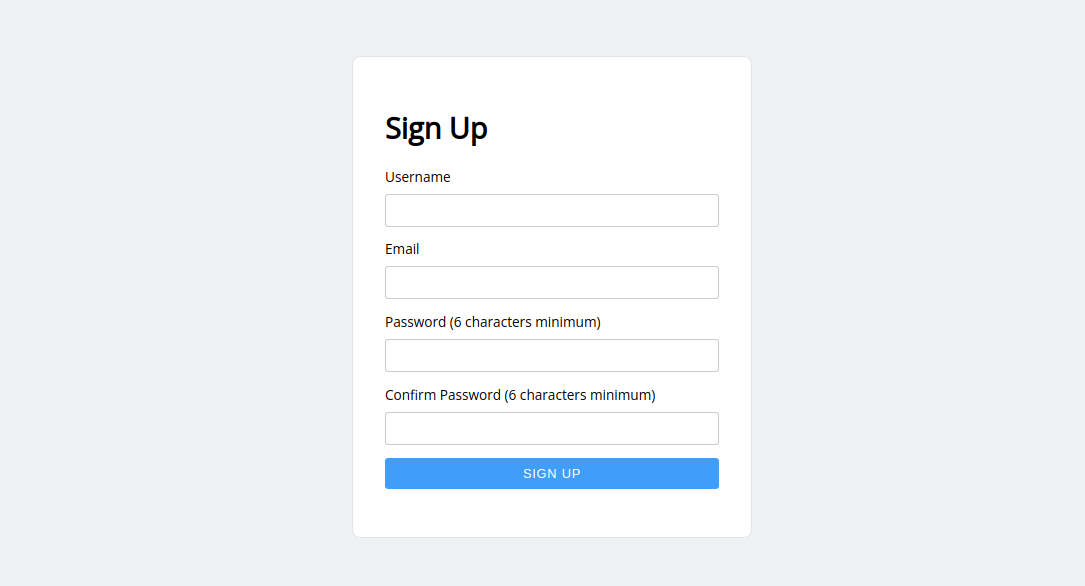
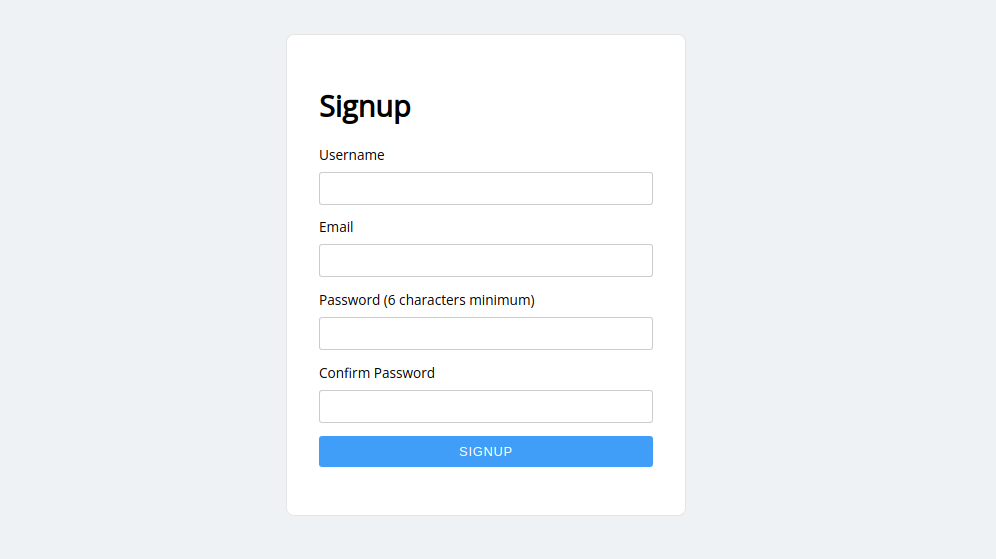
decoupled signup from session create

diff --git a/piccolo_api/session_auth/endpoints.py b/piccolo_api/session_auth/endpoints.py
@@ -10,6 +10,7 @@ from json import JSONDecodeError
 
 from jinja2 import Environment, FileSystemLoader
 from piccolo.apps.user.tables import BaseUser
+from starlette.datastructures import URL
 from starlette.endpoints import HTTPEndpoint, Request
 from starlette.exceptions import HTTPException
 from starlette.responses import (
@@ -232,38 +233,15 @@ class SessionLoginEndpoint(HTTPEndpoint, metaclass=ABCMeta):
         return response
 
 
-class SessionSignupEndpoint(HTTPEndpoint, metaclass=ABCMeta):
+class SignupEndpoint(HTTPEndpoint, metaclass=ABCMeta):
     @abstractproperty
     def _auth_table(self) -> t.Type[BaseUser]:
         raise NotImplementedError
 
     @abstractproperty
-    def _session_table(self) -> t.Type[SessionsBase]:
-        raise NotImplementedError
-
-    @abstractproperty
-    def _session_expiry(self) -> timedelta:
-        raise NotImplementedError
-
-    @abstractproperty
-    def _max_session_expiry(self) -> timedelta:
-        raise NotImplementedError
-
-    @abstractproperty
-    def _cookie_name(self) -> str:
-        raise NotImplementedError
-
-    @abstractproperty
-    def _redirect_to(self) -> t.Optional[str]:
+    def _redirect_to(self) -> t.Union[str, URL]:
         """
         Where to redirect to after login is successful.
-        """
-        raise NotImplementedError
-
-    @abstractproperty
-    def _production(self) -> bool:
-        """
-        If True, apply more stringent security.
         """
         raise NotImplementedError
 
@@ -386,51 +364,10 @@ class SessionSignupEndpoint(HTTPEndpoint, metaclass=ABCMeta):
         )
         # save user to database
         await query.save().run()
-        # login new user
-        user_id = await self._auth_table.login(
-            username=username, password=password
+
+        return RedirectResponse(
+            url=self._redirect_to, status_code=HTTP_303_SEE_OTHER
         )
-
-        if not user_id:
-            raise HTTPException(status_code=401, detail="Signup failed")
-
-        now = datetime.now()
-        expiry_date = now + self._session_expiry
-        max_expiry_date = now + self._max_session_expiry
-
-        session: SessionsBase = await self._session_table.create_session(
-            user_id=user_id,
-            expiry_date=expiry_date,
-            max_expiry_date=max_expiry_date,
-        )
-
-        if self._redirect_to is not None:
-            response: Response = RedirectResponse(
-                url=self._redirect_to, status_code=HTTP_303_SEE_OTHER
-            )
-        else:
-            response = JSONResponse(
-                content={"message": "logged in"}, status_code=200
-            )
-
-        if not self._production:
-            message = (
-                "If running sessions in production, make sure 'production' "
-                "is set to True, and serve under HTTPS."
-            )
-            warnings.warn(message)
-
-        cookie_value = t.cast(str, session.token)
-
-        response.set_cookie(
-            key=self._cookie_name,
-            value=cookie_value,
-            httponly=True,
-            secure=self._production,
-            max_age=int(self._max_session_expiry.total_seconds()),
-            samesite="lax",
-        )
-        return response
 
 
 def session_login(
@@ -495,39 +432,19 @@ def session_login(
     return _SessionLoginEndpoint
 
 
-def session_signup(
+def signup(
     auth_table: t.Optional[t.Type[BaseUser]] = None,
-    session_table: t.Optional[t.Type[SessionsBase]] = None,
-    session_expiry: timedelta = timedelta(hours=1),
-    max_session_expiry: timedelta = timedelta(days=7),
-    redirect_to: t.Optional[str] = "/",
-    production: bool = False,
-    cookie_name: str = "id",
+    redirect_to: t.Union[str, URL] = "/login/",
     template_path: t.Optional[str] = None,
-) -> t.Type[SessionSignupEndpoint]:
+) -> t.Type[SignupEndpoint]:
     """
     An endpoint for register user.
 
     :param auth_table:
         Which table to authenticate the username and password with. If not
         specified, it defaults to ``BaseUser``.
-    :param session_table:
-        Which table to store the session in. If not specified, it defaults to
-        ``SessionsBase``.
-    :param session_expiry:
-        How long the session will last.
-    :param max_session_expiry:
-        If the session is refreshed (see the ``increase_expiry`` parameter for
-        ``SessionsAuthBackend``), it can only be refreshed up to a certain
-        limit, after which the session is void.
     :param redirect_to:
         Where to redirect to after successful signup.
-    :param production:
-        Adds additional security measures. Use this in production, when serving
-        your app over HTTPS.
-    :param cookie_name:
-        The name of the cookie used to store the session token. Only override
-        this if the name of the cookie clashes with other cookies.
     :param template_path:
         If you want to override the default signup HTML template, you can do
         so by specifying the absolute path to a custom template. For example
@@ -544,17 +461,12 @@ def session_signup(
     environment = Environment(loader=FileSystemLoader(directory))
     signup_template = environment.get_template(filename)
 
-    class _SessionSignupEndpoint(SessionSignupEndpoint):
+    class _SignupEndpoint(SignupEndpoint):
         _auth_table = auth_table or BaseUser
-        _session_table = session_table or SessionsBase
-        _session_expiry = session_expiry
-        _max_session_expiry = max_session_expiry
         _redirect_to = redirect_to
-        _production = production
-        _cookie_name = cookie_name
         _signup_template = signup_template
 
-    return _SessionSignupEndpoint
+    return _SignupEndpoint
 
 
 def session_logout(

diff --git a/tests/session_auth/test_session.py b/tests/session_auth/test_session.py
@@ -16,7 +16,7 @@ from piccolo_api.session_auth.commands import clean
 from piccolo_api.session_auth.endpoints import (
     session_login,
     session_logout,
-    session_signup,
+    signup,
 )
 from piccolo_api.session_auth.middleware import (
     SessionsAuthBackend,
@@ -58,7 +58,7 @@ ROUTER = Router(
         Route("/", HomeEndpoint, name="home"),
         Route(
             "/signup/",
-            session_signup(),
+            signup(redirect_to="/login/"),
             name="signup",
         ),
         Route(
@@ -127,12 +127,22 @@ class TestSessions(SessionTestCase):
 
     def test_signup_success(self):
         """
-        Make sure to create a user and log in user.
+        Make sure to create a user and attempt to log in user.
         """
         client = TestClient(APP)
         response = client.post("/signup/", json=self.signup_credentials)
         self.assertEqual(response.status_code, 303)
-        self.assertTrue("id" in response.cookies.keys())
+        self.assertEqual(response.cookies.keys(), [])
+
+        response = client.post(
+            "/login/",
+            json={
+                "username": "John",
+                "password": "john123",
+            },
+        )
+        self.assertEqual(response.status_code, 303)
+        self.assertEqual(response.cookies.keys(), ["id"])
 
     def test_signup_missing_fields(self):
         """

diff --git a/docs/source/session_auth/endpoints.rst b/docs/source/session_auth/endpoints.rst
@@ -6,11 +6,11 @@ integrate with an ASGI app, such as Starlette or FastAPI.
 
 -------------------------------------------------------------------------------
 
-session_signup
---------------
+signup
+------
 
-An endpoint for creating user and user session. If you send a GET request to this
-endpoint, a simple signup form is rendered, where a user can manually signup.
+An endpoint for register user. If you send a GET request to this endpoint, 
+a simple signup form is rendered, where a user can manually signup.
 
 .. image:: images/signup_template.png
 
@@ -22,7 +22,7 @@ Alternatively, you can register user programatically by sending a POST request t
 this endpoint (passing in ``username``, ``email``, ``password`` and ``confirm_password`` 
 parameters as JSON, or as form data).
 
-When signup is successful, the user is created and user is redirected. 
+When signup is successful, the user can be redirected to login endpoint. 
 The destination can be configured using the ``redirect_to`` parameter.
 
 Examples
@@ -32,33 +32,32 @@ Here's a Starlette example:
 
 .. code-block:: python
 
-    from piccolo_api.session_auth.endpoints import session_signup
+    from piccolo_api.session_auth.endpoints import signup
     from starlette import Starlette
 
     app = Starlette()
 
-    app.mount('/signup/', session_signup())
+    app.mount('/signup/', signup(redirect_to="/login/"))
 
 Here's a FastAPI example:
 
 .. code-block:: python
 
-    from piccolo_api.session_auth.endpoints import session_signup
+    from piccolo_api.session_auth.endpoints import signup
     from fastapi import FastAPI
 
     app = FastAPI()
 
-    app.mount('/signup/', session_signup())
+    app.mount('/signup/', signup(redirect_to="/login/"))
 
 Source
 ~~~~~~
 
 .. currentmodule:: piccolo_api.session_auth.endpoints
 
-.. autofunction:: session_signup
+.. autofunction:: signup
 
 -------------------------------------------------------------------------------
-
 
 session_login
 -------------
